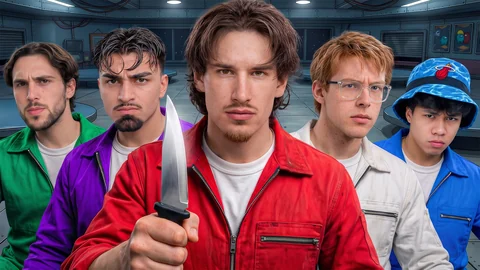
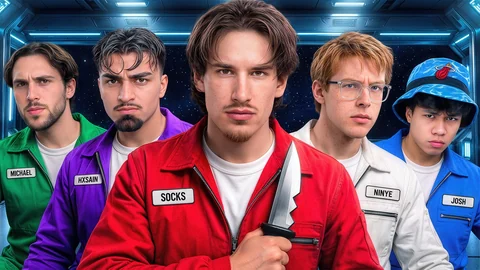
Thumb Swap

diff --git a/index.html b/index.html
@@ -30,7 +30,7 @@
 <button type="button" class="thumbnail-card" data-reveal="true" data-reveal-delay="0" data-full="enlarged/subirl-8copy.webp" aria-haspopup="dialog" aria-label="Enlarge Seven days underwater — Socksfor1"><img sizes="(min-width:1100px) 17vw, (min-width:600px) 44vw, 92vw" width="1920" height="1080" loading="lazy" decoding="async" alt="Seven days underwater — Socksfor1" draggable="false" data-src="gallery/subirl-8copy-800.webp" data-srcset="gallery/subirl-8copy-480.webp 480w, gallery/subirl-8copy-800.webp 800w, gallery/subirl-8copy-1280.webp 1280w"></button>
 <button type="button" class="thumbnail-card" data-reveal="true" data-reveal-delay="40" data-full="enlarged/backrooms-12copy.webp" aria-haspopup="dialog" aria-label="Enlarge Lost in the backrooms — Socksfor1"><img sizes="(min-width:1100px) 17vw, (min-width:600px) 44vw, 92vw" width="1280" height="720" loading="lazy" decoding="async" alt="Lost in the backrooms — Socksfor1" draggable="false" data-src="gallery/backrooms-12copy-800.webp" data-srcset="gallery/backrooms-12copy-480.webp 480w, gallery/backrooms-12copy-800.webp 800w, gallery/backrooms-12copy-1280.webp 1280w"></button>
 <button type="button" class="thumbnail-card" data-reveal="true" data-reveal-delay="80" data-full="enlarged/mangle-copy.webp?v=cat-20261009" aria-haspopup="dialog" aria-label="Enlarge Socksfor1 holding a large white cat"><img sizes="(min-width:1100px) 17vw, (min-width:600px) 44vw, 92vw" width="1280" height="720" loading="lazy" decoding="async" alt="Socksfor1 holding a large white cat" draggable="false" data-src="gallery/mangle-copy-800.webp?v=cat-20261009" data-srcset="gallery/mangle-copy-480.webp?v=cat-20261009 480w, gallery/mangle-copy-800.webp?v=cat-20261009 800w, gallery/mangle-copy-1280.webp?v=cat-20261009 1280w"></button>
-<button type="button" class="thumbnail-card" data-reveal="true" data-reveal-delay="120" data-full="enlarged/drive-newcopy.webp?v=amongers-20261020" aria-haspopup="dialog" aria-label="Enlarge Socksfor1 and friends in an Among Us challenge"><img sizes="(min-width:1100px) 17vw, (min-width:600px) 44vw, 92vw" width="1920" height="1080" loading="lazy" decoding="async" alt="Socksfor1 and friends in an Among Us challenge" draggable="false" data-src="gallery/drive-newcopy-800.webp?v=amongers-20261020" data-srcset="gallery/drive-newcopy-480.webp?v=amongers-20261020 480w, gallery/drive-newcopy-800.webp?v=amongers-20261020 800w, gallery/drive-newcopy-1280.webp?v=amongers-20261020 1280w"></button></div><script src="assets/gallery-init.js"></script>
+<button type="button" class="thumbnail-card" data-reveal="true" data-reveal-delay="120" data-full="enlarged/drive-newcopy.webp?v=amongers-v2-20261021" aria-haspopup="dialog" aria-label="Enlarge Socksfor1 and friends in an Among Us challenge"><img sizes="(min-width:1100px) 17vw, (min-width:600px) 44vw, 92vw" width="1920" height="1080" loading="lazy" decoding="async" alt="Socksfor1 and friends in an Among Us challenge" draggable="false" data-src="gallery/drive-newcopy-800.webp?v=amongers-v2-20261021" data-srcset="gallery/drive-newcopy-480.webp?v=amongers-v2-20261021 480w, gallery/drive-newcopy-800.webp?v=amongers-v2-20261021 800w, gallery/drive-newcopy-1280.webp?v=amongers-v2-20261021 1280w"></button></div><script src="assets/gallery-init.js"></script>
 <noscript><div class="portfolio-grid entry">
 <div class="thumbnail-card" data-reveal="true" data-reveal-delay="0"><img sizes="(min-width:1100px) 17vw, (min-width:600px) 44vw, 92vw" width="1920" height="1080" loading="eager" decoding="async" alt="Horse — Socksfor1" draggable="false" src="gallery/horse-copy-800.webp" srcset="gallery/horse-copy-480.webp 480w, gallery/horse-copy-800.webp 800w, gallery/horse-copy-1280.webp 1280w"></div>
 <div class="thumbnail-card" data-reveal="true" data-reveal-delay="40"><img sizes="(min-width:1100px) 17vw, (min-width:600px) 44vw, 92vw" width="1280" height="720" loading="eager" decoding="async" alt="Backrooms 6 — Socksfor1" draggable="false" src="gallery/backrooms-6copy-800.webp" srcset="gallery/backrooms-6copy-480.webp 480w, gallery/backrooms-6copy-800.webp 800w, gallery/backrooms-6copy-1280.webp 1280w"></div>
@@ -55,7 +55,7 @@
 <div class="thumbnail-card" data-reveal="true" data-reveal-delay="0"><img sizes="(min-width:1100px) 17vw, (min-width:600px) 44vw, 92vw" width="1920" height="1080" loading="lazy" decoding="async" alt="Seven days underwater — Socksfor1" draggable="false" src="gallery/subirl-8copy-800.webp" srcset="gallery/subirl-8copy-480.webp 480w, gallery/subirl-8copy-800.webp 800w, gallery/subirl-8copy-1280.webp 1280w"></div>
 <div class="thumbnail-card" data-reveal="true" data-reveal-delay="40"><img sizes="(min-width:1100px) 17vw, (min-width:600px) 44vw, 92vw" width="1280" height="720" loading="lazy" decoding="async" alt="Lost in the backrooms — Socksfor1" draggable="false" src="gallery/backrooms-12copy-800.webp" srcset="gallery/backrooms-12copy-480.webp 480w, gallery/backrooms-12copy-800.webp 800w, gallery/backrooms-12copy-1280.webp 1280w"></div>
 <div class="thumbnail-card" data-reveal="true" data-reveal-delay="80"><img sizes="(min-width:1100px) 17vw, (min-width:600px) 44vw, 92vw" width="1280" height="720" loading="lazy" decoding="async" alt="Socksfor1 holding a large white cat" draggable="false" src="gallery/mangle-copy-800.webp?v=cat-20261009" srcset="gallery/mangle-copy-480.webp?v=cat-20261009 480w, gallery/mangle-copy-800.webp?v=cat-20261009 800w, gallery/mangle-copy-1280.webp?v=cat-20261009 1280w"></div>
-<div class="thumbnail-card" data-reveal="true" data-reveal-delay="120"><img sizes="(min-width:1100px) 17vw, (min-width:600px) 44vw, 92vw" width="1920" height="1080" loading="lazy" decoding="async" alt="Socksfor1 and friends in an Among Us challenge" draggable="false" src="gallery/drive-newcopy-800.webp?v=amongers-20261020" srcset="gallery/drive-newcopy-480.webp?v=amongers-20261020 480w, gallery/drive-newcopy-800.webp?v=amongers-20261020 800w, gallery/drive-newcopy-1280.webp?v=amongers-20261020 1280w"></div></div>
+<div class="thumbnail-card" data-reveal="true" data-reveal-delay="120"><img sizes="(min-width:1100px) 17vw, (min-width:600px) 44vw, 92vw" width="1920" height="1080" loading="lazy" decoding="async" alt="Socksfor1 and friends in an Among Us challenge" draggable="false" src="gallery/drive-newcopy-800.webp?v=amongers-v2-20261021" srcset="gallery/drive-newcopy-480.webp?v=amongers-v2-20261021 480w, gallery/drive-newcopy-800.webp?v=amongers-v2-20261021 800w, gallery/drive-newcopy-1280.webp?v=amongers-v2-20261021 1280w"></div></div>
 </noscript></section>
 </main>
 <footer class="site-footer" data-reveal="true"><a class="brand small" href="./"><img src="brand/hawk.png" width="30" height="30" alt="" draggable="false"><span>Hawk</span></a><p>Thumbnails that make the first impression count.</p>
